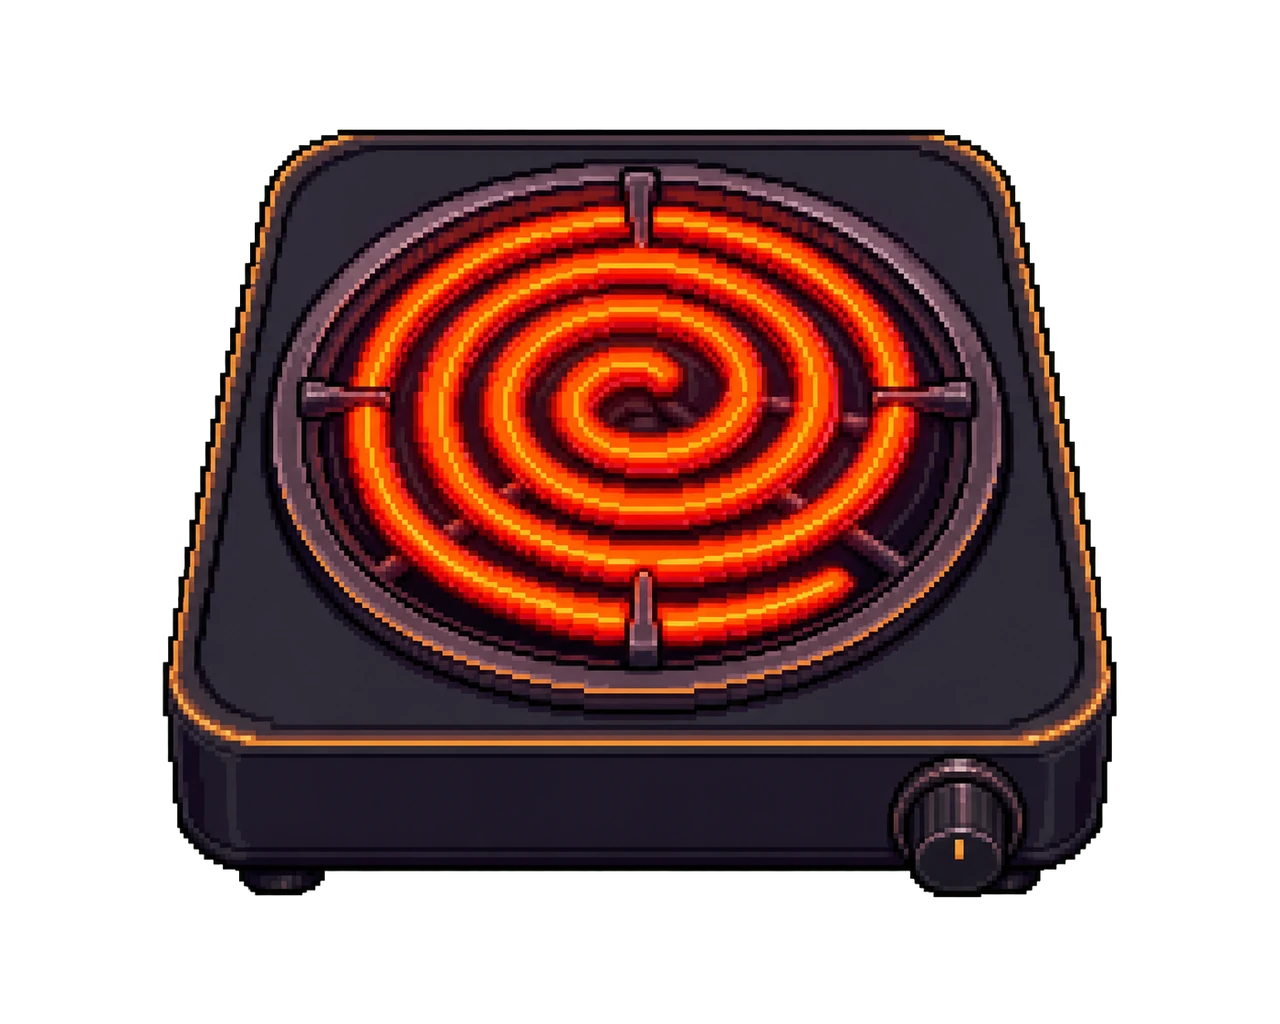
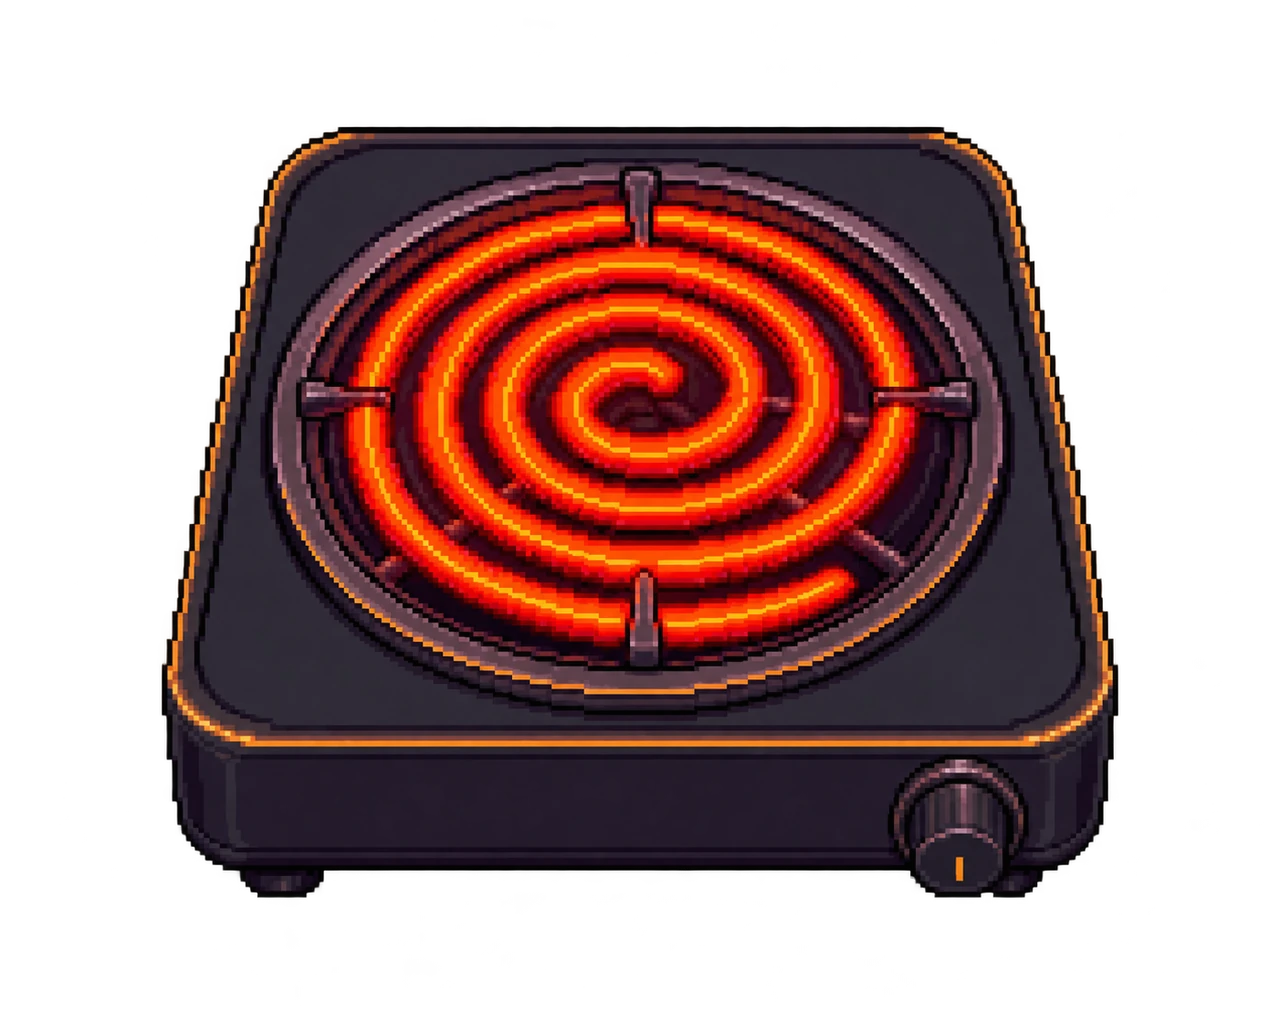
コンロの短い目印を下側へ修正し、実況つき比較を初期表示

diff --git a/tools/browser/craft_cutin_preview.html b/tools/browser/craft_cutin_preview.html
@@ -20,7 +20,7 @@
   <p>画面いっぱいの迫力と、左側の中央へ収める出し方を比較。制作画面を操作しながら、演出と時間停止からの再開を試せます。</p>
   <div class="controls">
     <label>工程<select id="step"><option value="heat">炭焼き</option><option value="holes">穴あけ</option><option value="steam">蒸らし</option><option value="pull">吸い出し</option></select></label>
-    <label>場面<select id="mode"><option value="drill">自主練</option><option value="tutorial">スミさんの練習</option><option value="tournament">大会</option></select></label>
+    <label>場面<select id="mode"><option value="tournament" selected>大会（左下に審査員）</option><option value="tutorial">スミさんの練習</option><option value="drill">自主練（見守る人なし）</option></select></label>
     <label>出し方<select id="variant"><option value="full" selected>D：全画面＋時間停止</option><option value="center">E：主人公エリア中央＋時間停止</option><option value="pair">A：左枠の下に2コマ</option><option value="peek">B：左端から顔だけ</option><option value="window">C：左枠を漫画に切替（時間継続）</option></select></label>
     <button class="primary" id="play" disabled>カットインを再生</button>
     <button id="hold" disabled>静止で比較</button>
@@ -29,6 +29,7 @@
   </div>
   <div class="frame"><iframe id="game" title="カットイン比較用の制作画面"></iframe></div>
   <p class="note" id="note"></p>
+  <p class="note">左下のコメントは大会なら審査員、練習ならスミさんが表示されます。自主練は見守る人なしの場面です。</p>
   <p class="note">今回は本編接続前の比較用プレビューです。カットインは手動再生で、セーブは書き込みません。手元の絵は炭焼きの仮素材を共用しています。</p>
 </main>
 <script src="craft_cutin_preview.js"></script>
